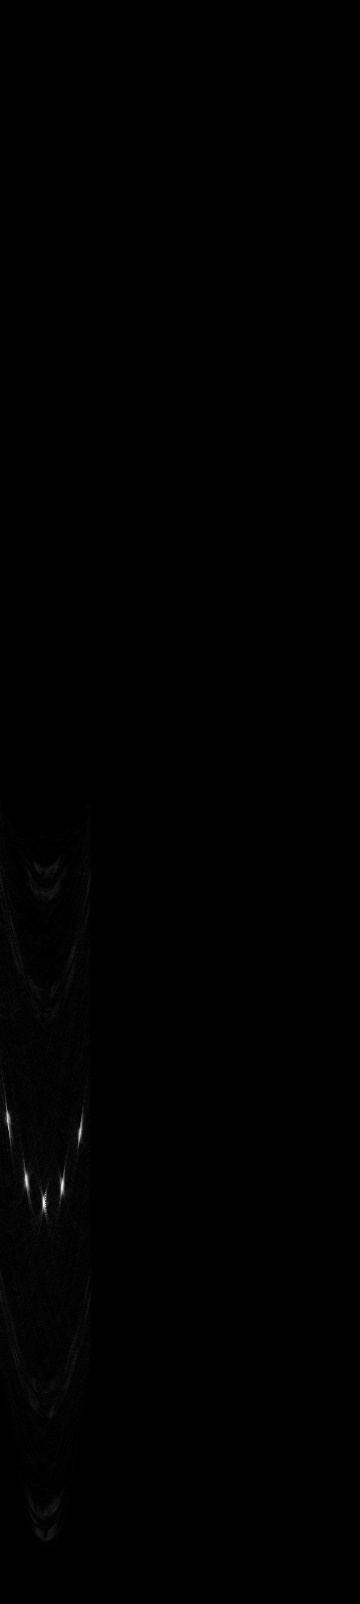
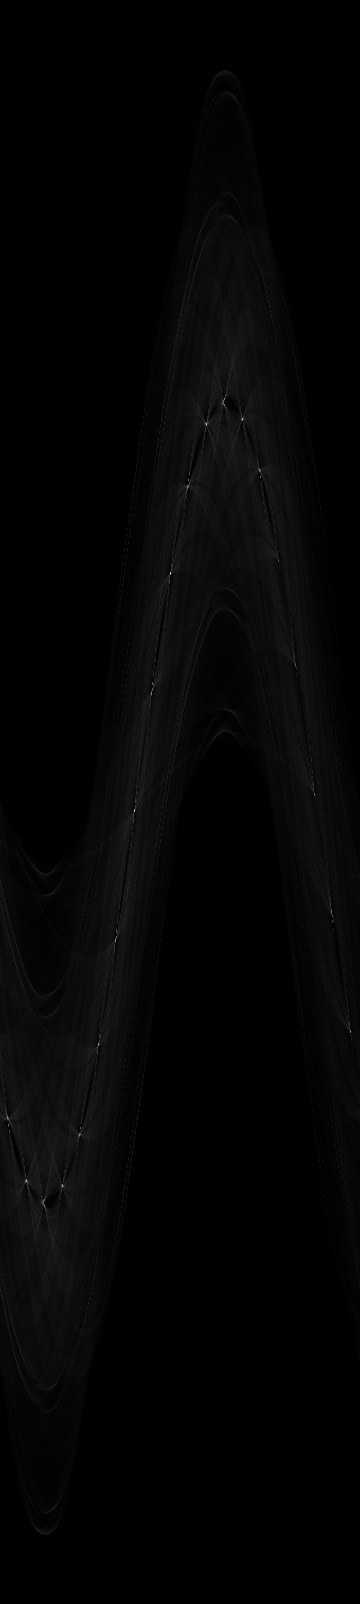
kinda fixed line detection

diff --git a/hough.cpp b/hough.cpp
@@ -119,8 +119,8 @@ void imageToDouble(Mat &input, Mat &out)  {
 
 void sobel(Mat &image, Mat &gradient_mag, Mat &gradient_dir) {
     // // create the Gaussian kernel in 1D
-    cv::Mat kX = cv::getGaussianKernel(15, -1);
-    cv::Mat kY = cv::getGaussianKernel(15, -1);
+    cv::Mat kX = cv::getGaussianKernel(3, -1);
+    cv::Mat kY = cv::getGaussianKernel(3, -1);
 
     // // make it 2D multiply one by the transpose of the other
     cv::Mat kernelG = kX * kY.t();
@@ -137,14 +137,18 @@ void sobel(Mat &image, Mat &gradient_mag, Mat &gradient_dir) {
 
     convolution(doubleImage, kernelG, 3, blurredImage);
     convolution(blurredImage, kernelX, 3, outputX);
-	Mat uX, uY;
+	Mat uX, uY, uGMag, uGDir;
 	normalize(outputX, uX);
     imwrite("outputX.jpg", uX);
     convolution(blurredImage, kernelY, 3, outputY);
 	normalize(outputY, uY);
     imwrite("outputY.jpg", uY);
     calc_gradient_mag(outputX, outputY, gradient_mag);
+    normalize(gradient_mag, uGMag);
+    imwrite("outputMag.jpg", uGMag);
     calc_gradient_dir(outputX, outputY, gradient_dir);
+    normalize(gradient_dir, uGDir);
+    imwrite("outputDir.jpg", uGDir);
 }
 
 void fullLine(cv::Mat &img, cv::Point a, cv::Point b, cv::Scalar color, double m) {
@@ -160,16 +164,21 @@ void houghTransform(Mat &image, Mat &gradient_mag, Mat &gradient_dir, double thr
     Mat gradient_thresh, double_mag, double_dir;
     // imageToDouble(gradient_mag, double_mag);
     // imageToDouble(gradient_dir, double_dir);
-    Mat new_gradient = gradient_mag.mul(gradient_dir);
+    // Mat new_gradient = gradient_mag.mul(gradient_dir);
+    Mat new_gradient = gradient_mag;
+    Mat uNG;
+    normalize(new_gradient, uNG);
+    imwrite("outputNG.jpg", uNG);
     Mat normalized;
     normalize(new_gradient, normalized);
     int min = round(sqrt(sqr(image.cols) + sqr(image.rows)));
     Mat hough_space(Size(360, 2 * min), CV_64F, Scalar(0));
     for (int y = 0; y < new_gradient.rows; y++) {
         for (int x = 0; x < new_gradient.cols; x++) {
-            if (normalized.at<double>(y, x) > 128) {
+            if (normalized.at<uchar>(y, x) > 128) {
                 for (double t = 0; t < hough_space.cols; t++) {
-                    if (abs((gradient_dir.at<double>(y, x) * 180 / M_PI) - t) < 2) {
+                    if ((gradient_dir.at<double>(y, x) * 180 / M_PI) - 360 <= t &&
+                        (gradient_dir.at<double>(y, x) * 180 / M_PI) + 360 >= t) {
                         int p = round(x * cos(t * M_PI / 180) + y * sin(t * M_PI / 180)) + min;
                         hough_space.at<double>(p, t) = hough_space.at<double>(p, t) + 1;
                     }
@@ -181,9 +190,12 @@ void houghTransform(Mat &image, Mat &gradient_mag, Mat &gradient_dir, double thr
     normalize(hough_space, hough_out);
     imwrite("houghSpace.jpg", hough_out);
 
+    Mat colour_image;
+    cvtColor( image, colour_image, CV_GRAY2BGR );
+
     for (int p = 0; p < hough_out.rows; p++) {
         for (int t = 0; t < hough_out.cols; t++) {
-            if (hough_out.at<uchar>(p, t) > 200) {
+            if (hough_out.at<uchar>(p, t) > 128) {
                 double m = - cos(t * M_PI / 180) / sin(t * M_PI / 180);
                 double c = (p - min) / sin(t * M_PI / 180);
                 Point p1(200, round(m * 200 + c));
@@ -192,11 +204,11 @@ void houghTransform(Mat &image, Mat &gradient_mag, Mat &gradient_dir, double thr
                 << " p1.x: " << p1.x << " p1.y: " << p1.y << " p2.x: " << p2.x << " p2.y: " << p2.y << "\n";
 
                 // line(image, p1, p2, Scalar(0, 255, 0), 2, 8, 0);
-                fullLine(image, p1, p2, Scalar(0, 255, 0), m);
+                fullLine(colour_image, p1, p2, Scalar(255, 255, 0), m);
             }
         }
     }
-    imwrite("lines.jpg", image);
+    imwrite("lines.jpg", colour_image);
 
 }
 
